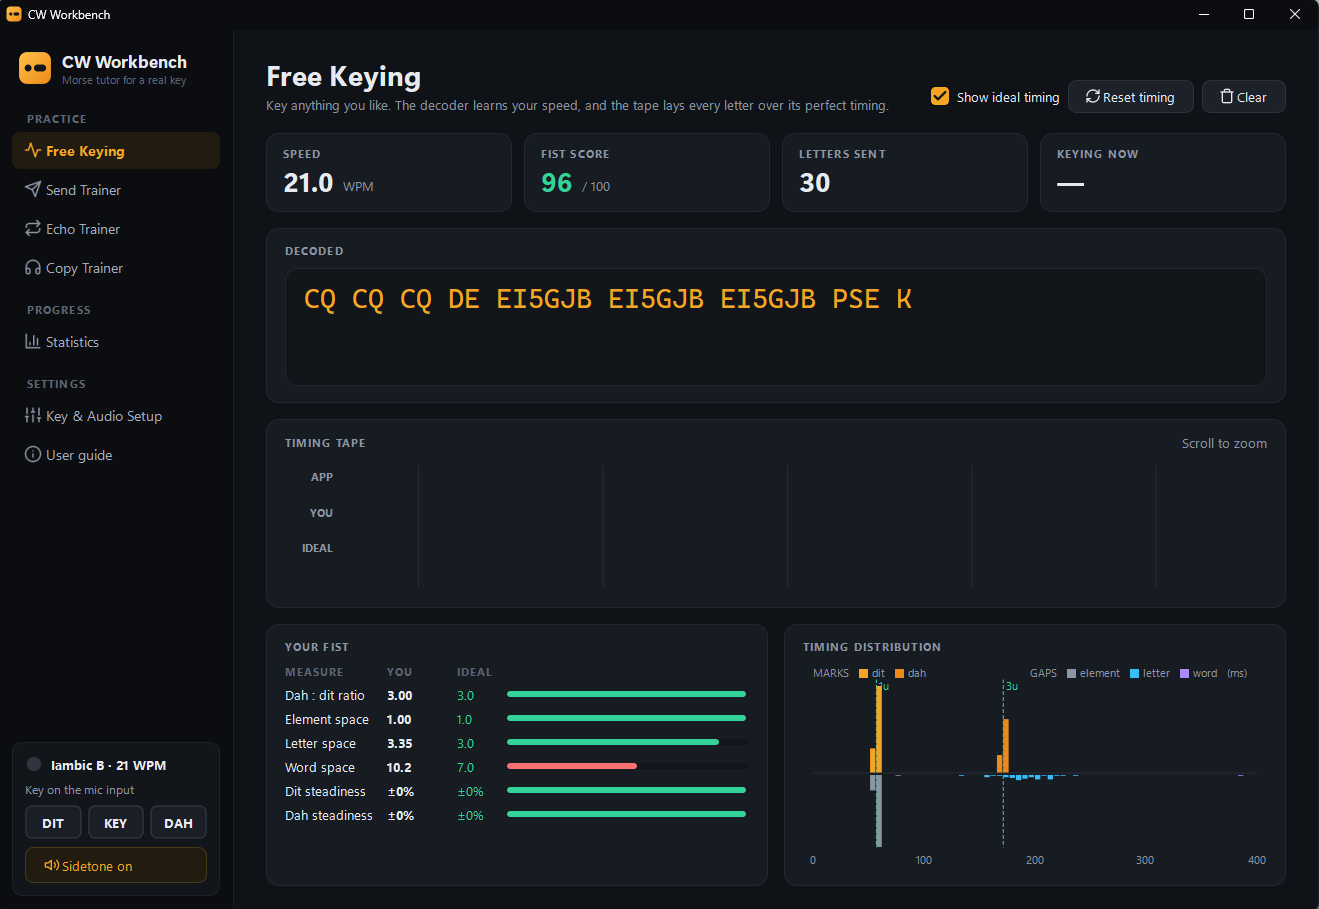
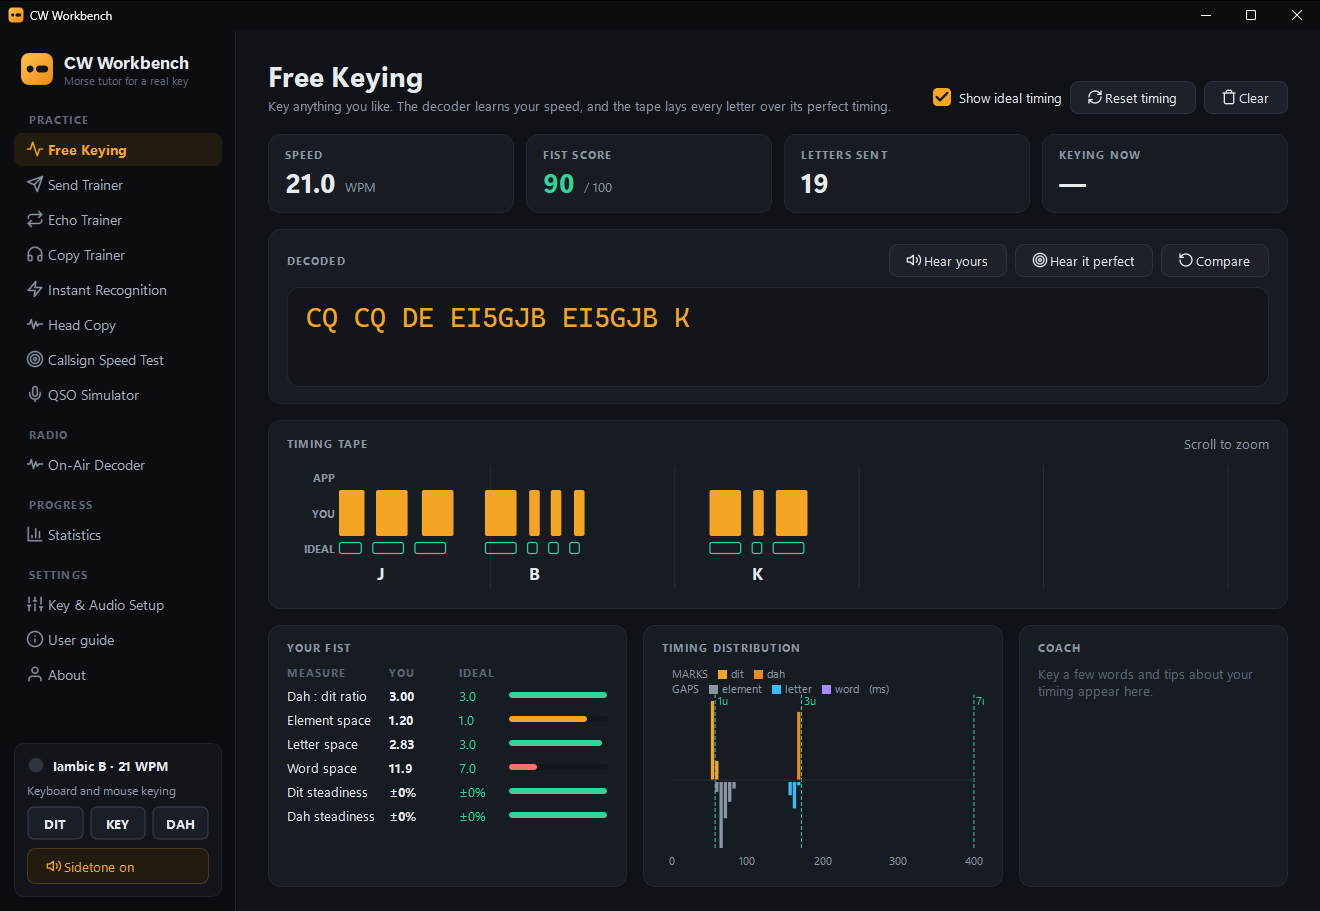
README for 0.3.0: the new trainers, the On-Air Decoder, and new screenshots

diff --git a/README.md b/README.md
@@ -5,9 +5,9 @@
 <h1 align="center">CW Workbench</h1>
 
 <p align="center">
-  <b>A Morse code tutor for your real key.</b><br>
-  Plug a straight key, bug or iambic paddle into your PC's microphone socket and practise
-  sending, copying and keying back, with instant sidetone and feedback on every letter.
+  <b>A free Morse tutor for Windows that works with your own key.</b><br>
+  Plug a straight key, bug or paddle into the PC's microphone socket and practise sending,
+  copying and keying back, with a proper sidetone and a look at every letter you send.
 </p>
 
 <p align="center">
@@ -17,37 +17,58 @@
 
 ![CW Workbench, Free Keying page](images/screenshot.png)
 
-## Why CW Workbench
+## Why I wrote it
 
-Most Morse practice programs play code at you, or let you tap a keyboard key. CW Workbench
-listens to **the key you use on the air**, plugged straight into the PC with an ordinary
-3.5 mm plug. No interface box, no USB adapter.
+Most practice programs either play Morse at you or have you tapping a keyboard key, and
+neither feels like the real thing. CW Workbench listens to the key you actually use on the
+air, plugged into the PC with an ordinary 3.5 mm plug. There's no interface box and no USB
+adapter to buy.
 
-- **Your own key, no extra hardware.** It detects the key through the microphone socket and
-  calibrates itself to your sound card.
-- **Radio-like keying.** A built-in iambic keyer (modes A and B) and a sidetone that follows
-  your key within about 10 ms.
-- **See your fist.** Every letter you send is drawn over its perfect timing, and a fist score
-  rates your dah:dit ratio, spacing and steadiness.
-- **Four ways to practise:**
-  - **Free Keying**: send anything and watch it decoded.
-  - **Send Trainer**: words, callsigns and QSO phrases, checked letter by letter.
-  - **Echo Trainer**: hear it, then key it straight back.
-  - **Copy Trainer**: the Koch method, one new character at a time.
-- **Practice that follows your weak spots.** Characters you get wrong come up more often,
-  and the statistics show your accuracy for every character.
+It hears the key through the mic socket and calibrates itself to your sound card. It has an
+iambic keyer built in (modes A and B), and the sidetone follows your key within about 10 ms,
+so it feels like keying a radio. Every letter you send is drawn over its perfect timing, and
+your fist gets a score for dah:dit ratio, spacing and steadiness.
+
+## What you can do with it
+
+- **Free Keying.** Send whatever you like and watch it decoded. Play back your last few words
+  as you sent them, next to the same words sent perfectly.
+- **Send Trainer.** Words, callsigns, Q-codes and QSO phrases, checked letter by letter.
+- **Echo Trainer.** Hear it, then key it straight back.
+- **Copy Trainer.** The Koch method, one new character at a time. Lessons can be saved as
+  MP3 to practise in the car or out walking.
+- **Instant Recognition.** One character at full speed, typed the moment you know it.
+- **Head Copy.** A word or phrase at full speed, and you only get to type it once it's over.
+- **Callsign Speed Test.** Along the lines of RufzXP: the speed climbs as long as you keep
+  getting them right.
+- **QSO Simulator.** Work a made-up station with your own key. Answer a CQ, call CQ, or run
+  a contest. It replies to what it actually decoded from your sending.
+- **On-Air Decoder.** Decodes CW off the air from your radio's audio, with a waterfall like
+  CW Skimmer's, so you can check your copy against it.
+
+There's a Coach that turns your timing into tips in plain words, with extra help for bugs
+and sideswipers. The copying trainers can add band conditions (noise, fading, a station
+alongside, chirp, and senders with less than perfect fists), and the statistics keep track of
+every character, so the ones you get wrong come up more often.
+
+![QSO Simulator, partway through a contact](images/qso-simulator.png)
+
+![On-Air Decoder copying a station off the air](images/on-air-decoder.png)
+
+![Statistics for every character](images/statistics.png)
 
 ## Download and install
 
 1. Go to the **[latest release](https://github.com/lmacc/CW-Workbench/releases/latest)** and
    download **`CWWorkbench-Setup-<version>.exe`**.
-2. Run it. It installs for your Windows account without needing administrator rights, and
-   adds **CW Workbench** and the **CW Workbench User Guide** to the Start menu.
-3. If Windows shows **"Windows protected your PC"**, click **More info** → **Run anyway**.
+2. Run it. It installs for your own Windows account without needing admin rights, and puts
+   **CW Workbench** and the **CW Workbench User Guide** in the Start menu.
+3. If Windows says **"Windows protected your PC"**, click **More info**, then **Run anyway**.
    The installer isn't code-signed, so Windows doesn't recognise it yet.
 
-To update, run the newer installer. To remove the app, go to **Settings → Apps → Installed
-apps → CW Workbench → Uninstall**.
+To update, run the newer installer over the old one; your settings and statistics are kept.
+From 0.3.0 on, the **About** button in the app lights up when there's a new version out. To
+remove it, go to **Settings → Apps → Installed apps → CW Workbench → Uninstall**.
 
 ## Connect your key
 
@@ -58,41 +79,41 @@ apps → CW Workbench → Uninstall**.
 | Straight key, bug, sideswiper | key contact | not used | common |
 | Iambic paddle | dit | dah | common |
 
-- **Desktop PC:** use the pink microphone socket.
-- **Laptop with one headset socket:** use a headset splitter cable and plug the key into its
-  microphone leg.
-- **Paddles** need a stereo microphone input. Many PCs have one, and the app tells you if yours doesn't.
+On a desktop PC, use the pink microphone socket. A laptop with one headset socket needs a
+headset splitter cable, with the key plugged into its microphone side. A paddle needs a
+stereo microphone input. Plenty of PCs have one, and the app tells you if yours doesn't.
 
-> **Safe for your PC.** The microphone socket supplies only a few volts through a resistor,
-> so closing a key across it is harmless. **Never connect the same key to a radio at the
-> same time.**
+> **It won't hurt your PC.** The mic socket only puts a few volts through a resistor, so
+> closing a key across it is harmless. **Just never have the same key connected to a radio
+> at the same time.**
 
 ## First start
 
 1. The app opens on **Key & Audio Setup**. Choose the microphone input your key is plugged
    into and tick **Read my key from this input**.
-2. Press **Calibrate**: hands off for a moment, then press and hold the key, then release.
-   It takes about 7 seconds (12 for a paddle).
+2. Press **Calibrate**. Keep your hands off the key for a moment, then press and hold it,
+   then let go. It takes about 7 seconds (12 for a paddle).
 3. On **Keyer & sound**, choose your key type, keyer speed and sidetone.
 4. Go to **Free Keying** and start sending.
 
-No key yet? Use the keyboard (**Space** is a straight key, **Ctrl** or **[ ]** are paddles)
-or the on-screen keys.
+No key yet? The keyboard works too: **Space** is a straight key, and **Ctrl** or **[ ]** are
+the paddles. There are on-screen keys as well.
 
-For the details of every page and setting, and a troubleshooting section, open the
-**User guide** from the app's sidebar or the Start menu.
+For every page and setting in detail, and a troubleshooting section, open the **User guide**
+from the app's sidebar or the Start menu.
 
 ## Requirements
 
 - Windows 10 or 11, 64-bit
-- A microphone socket (or a USB sound adapter with one)
+- A microphone socket, or a USB sound adapter with one
 - Headphones or speakers for the sidetone
+- For the On-Air Decoder, a radio with USB audio, or a cable from its audio out to the PC
 
 ## Feedback
 
-Found a problem or have an idea? Please
-[open an issue](https://github.com/lmacc/CW-Workbench/issues). If it's about detecting the
-key or sound, the app keeps a log at `%APPDATA%\CWWorkbench\CW Workbench\audio-log.txt`
+Found a problem, or have an idea? Please
+[open an issue](https://github.com/lmacc/CW-Workbench/issues). If it's about picking up the
+key or the sound, the app keeps a log at `%APPDATA%\CWWorkbench\CW Workbench\audio-log.txt`
 that helps a lot.
 
-73!
+73, Leslie EI5GJB
